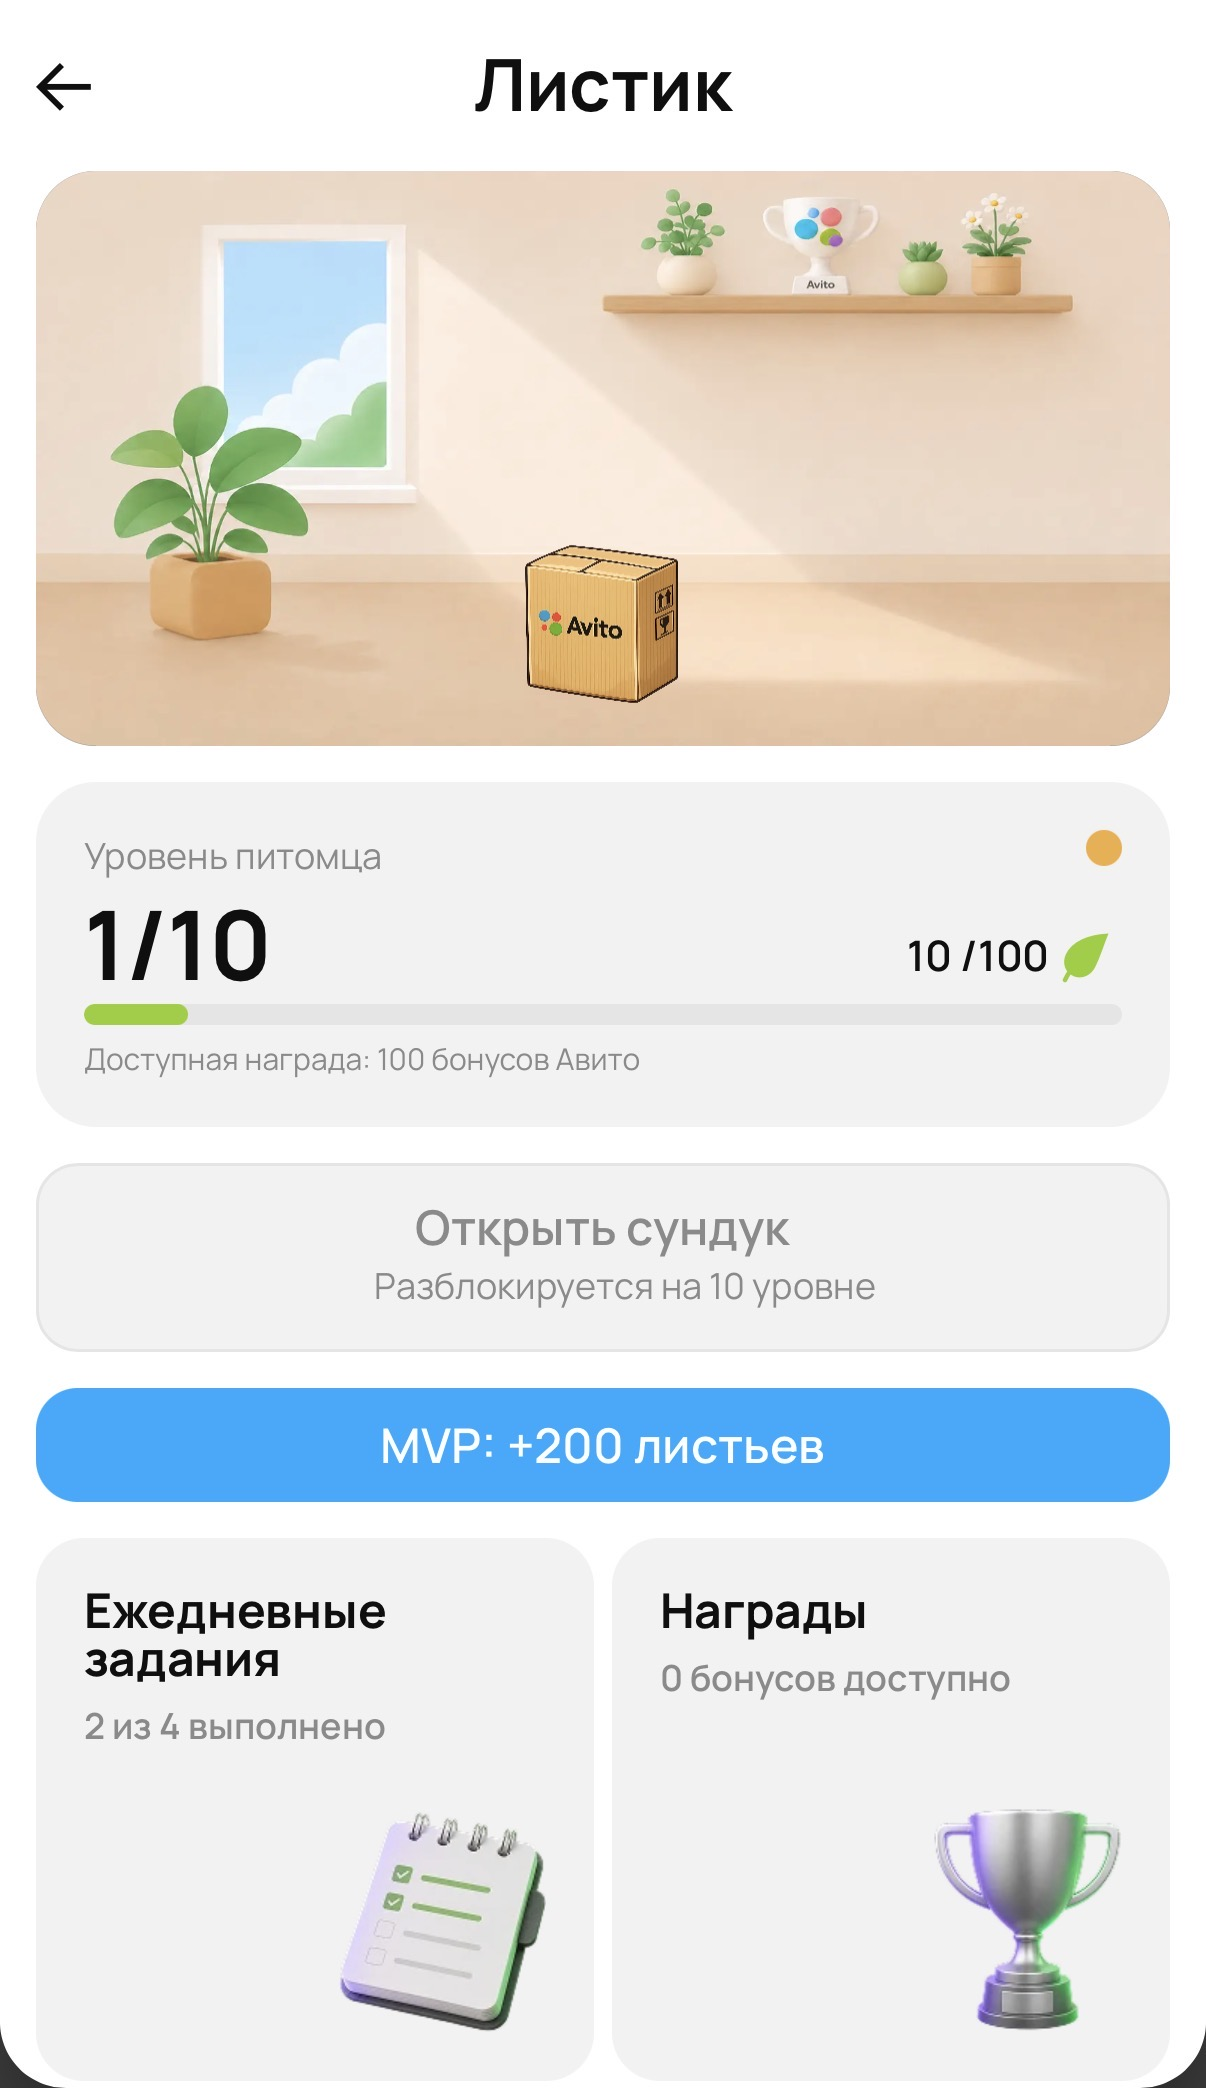
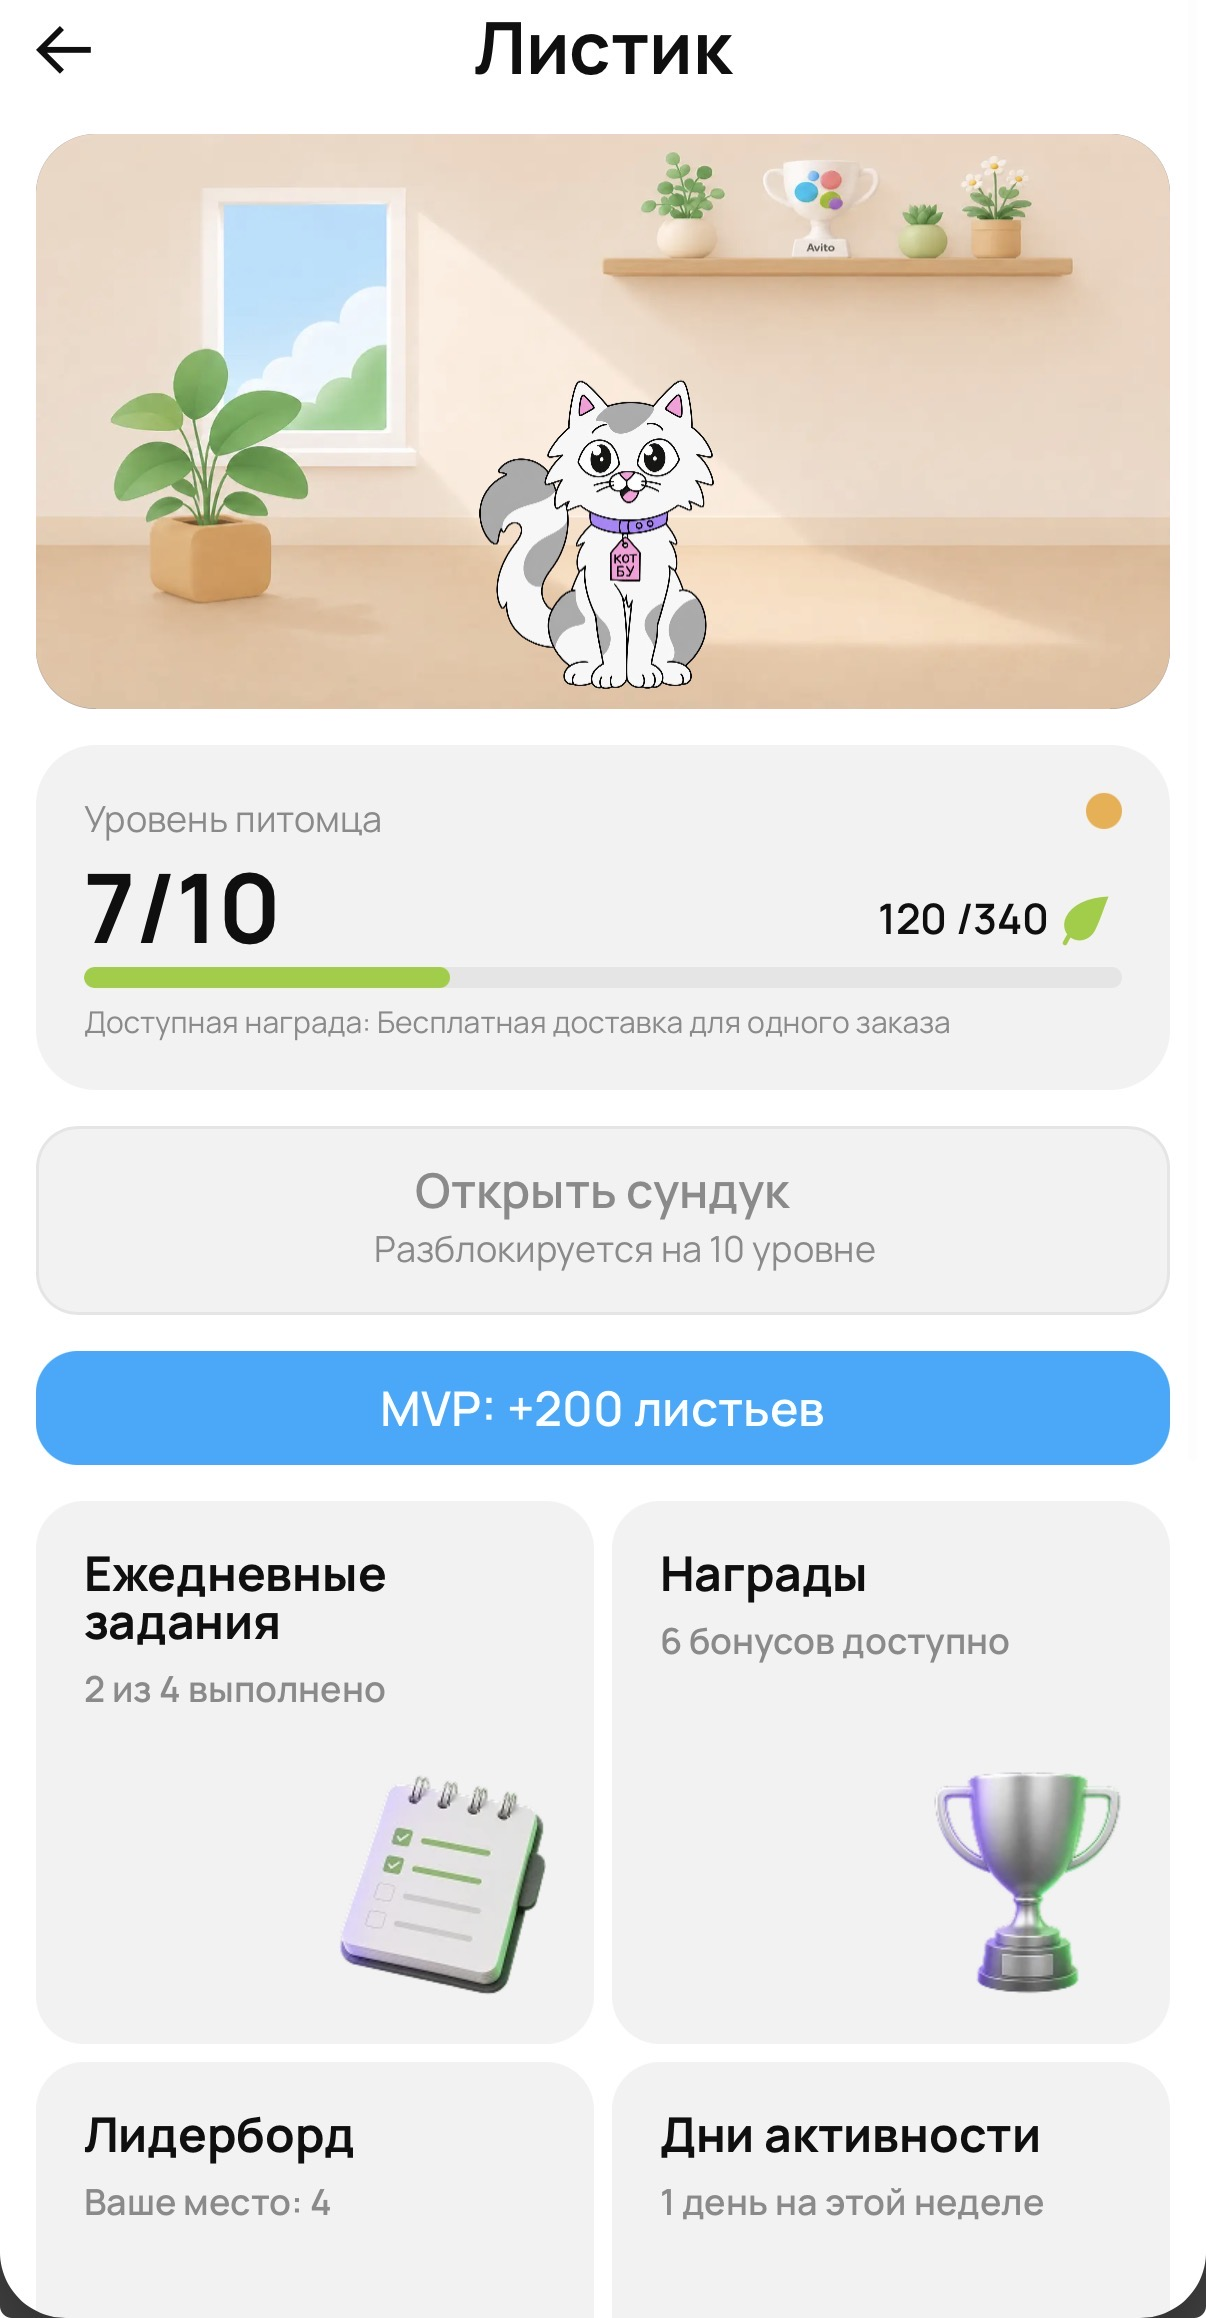
feat: исправлены ошибки в readme

diff --git a/README.md b/README.md
@@ -30,7 +30,6 @@
 - [Быстрый запуск](#быстрый-запуск)
   - [Требования](#требования)
   - [Запуск всего проекта](#запуск-всего-проекта)
-- [Проверка после запуска](#проверка-после-запуска)
 - [Разработка и тесты](#разработка-и-тесты)
 - [Структура проекта](#структура-проекта)
 - [Вклад участников](#вклад-участников)
@@ -85,13 +84,15 @@ backend (Go API, :8090) -----> postgres (:5432)
 
 ## Внешний вид
 
-| Авторизация |                               Еженедельный вход                                |
-| :---: |:------------------------------------------------------------------------------:|
-| <img src="docs/assets/auth.jpg" alt="Авторизация" width="320" /> | <img src="docs/assets/weekly_login.jpg" alt="Еженедельный вход" width="320" /> |
-| Главный экран |                               Ежедневные задания                               |
-| <img src="docs/assets/main_page.jpg" alt="Главный экран" width="320" /> |    <img src="docs/assets/tasks.jpg" alt="Ежедневные задания" width="320" />    |
-| Награды |                                Ежедневный отчёт                                |
-| <img src="docs/assets/rewards.jpg" alt="Награды" width="320" /> |    <img src="docs/assets/daily_report.jpg" alt="Сводка дня" width="320" />     |
+|                               Авторизация                               |                                Еженедельный вход                                |
+|:-----------------------------------------------------------------------:|:-------------------------------------------------------------------------------:|
+|    <img src="docs/assets/auth.jpg" alt="Авторизация" width="320" />     | <img src="docs/assets/weekly_login.jpg" alt="Еженедельный вход" width="320" />  |
+|                              Главный экран                              |                                  Главный экран                                  |
+| <img src="docs/assets/main_page.jpg" alt="Главный экран" width="320" /> |    <img src="docs/assets/main_page2.jpg" alt="Главный экран" width="320" />     |
+|                                 Награды                                 |                               Ежедневные задания                                |
+|     <img src="docs/assets/rewards.jpg" alt="Награды" width="320" />     |        <img src="docs/assets/tasks.jpg" alt="Сводка дня" width="320" />         |
+|                                Лидерборд                                |                                   Сводка дня                                    |
+|  <img src="docs/assets/leaderboard.jpg" alt="Лидерборд" width="320" />  | <img src="docs/assets/daily_report.jpg" alt="Ежедневные задания" width="320" /> |
 
 ## Быстрый запуск
 
@@ -153,24 +154,6 @@ make logs     # логи всех сервисов
 make restart  # перезапуск без пересборки
 make build    # пересборка образов
 ```
-
-## Проверка после запуска
-
-Проверка backend:
-
-```sh
-curl http://localhost:8090/api/health
-```
-
-Команда проверяет, что backend запущен и готов принимать запросы.
-
-Проверка puppeteer:
-
-```sh
-curl http://localhost:8091/health
-```
-
-Откройте интерфейс: <http://localhost:3000>.
 
 ## Разработка и тесты
 

diff --git a/backend/README.md b/backend/README.md
@@ -4,22 +4,8 @@ Backend игрового слоя для Авито. Сервис авториз
 
 ## Запуск
 
-Для локального запуска нужны Go 1.25+, PostgreSQL с применёнными миграциями из `../migrations/` и работающий сервис puppeteer на `http://localhost:8091`.
-
-```bash
-cd backend
-
-export DATABASE_URL=postgres://hackathon:change-me@localhost:5432/hackathon?sslmode=disable
-export JWT_SECRET="$(openssl rand -hex 32)"
-export INTERNAL_SERVICE_TOKEN="$(openssl rand -hex 32)"
-export PUPPETEER_INTERNAL_URL=http://localhost:8091
-
-go run .
-```
-
-Backend будет доступен на `http://localhost:8090`. Миграции сервис автоматически не применяет.
-
-Рекомендуемый запуск всего проекта из корня репозитория:
+Запуск выполняется вместе с остальными сервисами через Docker Compose из корня
+репозитория:
 
 ```bash
 cp .env.example .env
@@ -27,6 +13,8 @@ make up
 ```
 
 Перед запуском замените значения `JWT_SECRET` и `INTERNAL_SERVICE_TOKEN` в `.env` на разные случайные строки длиной не менее 32 символов. `make up` применит миграции и запустит PostgreSQL, backend, puppeteer и frontend.
+
+Backend будет доступен на `http://localhost:8090`.
 
 Проверка состояния сервиса:
 
@@ -38,16 +26,15 @@ curl http://localhost:8090/api/health
 `http://localhost:8090/swagger`. Полный контракт API находится в
 [`docs/openapi.yaml`](../docs/openapi.yaml).
 
-Основные переменные окружения:
+Основные настройки Docker-окружения:
 
 ```dotenv
-DATABASE_URL=postgres://user:password@localhost:5432/database?sslmode=disable
 JWT_SECRET=<строка длиной не менее 32 символов>
 INTERNAL_SERVICE_TOKEN=<строка длиной не менее 32 символов>
 JWT_TTL=24h
 HTTP_ADDRESS=:8090
-PUPPETEER_INTERNAL_URL=http://localhost:8091
-LEVEL_REWARDS_CONFIG=../config/level_rewards.yaml
+PUPPETEER_INTERNAL_URL=http://puppeteer:8091
+LEVEL_REWARDS_CONFIG=/app/config/level_rewards.yaml
 ```
 
 ## Технологии

diff --git a/puppeteer/README.md b/puppeteer/README.md
@@ -4,20 +4,8 @@
 
 ## Запуск
 
-Для локального запуска нужны Go 1.25+ и PostgreSQL с применёнными миграциями из `../migrations/`. Puppeteer и backend используют одну базу данных.
-
-```bash
-cd puppeteer
-
-export DATABASE_URL=postgres://hackathon:change-me@localhost:5432/hackathon?sslmode=disable
-export INTERNAL_SERVICE_TOKEN="$(openssl rand -hex 32)"
-
-go run .
-```
-
-Сервис будет доступен на `http://localhost:8091`. Миграции он автоматически не применяет.
-
-Рекомендуемый запуск всего проекта из корня репозитория:
+Запуск выполняется вместе с остальными сервисами через Docker Compose из корня
+репозитория:
 
 ```bash
 cp .env.example .env
@@ -26,21 +14,22 @@ make up
 
 Перед запуском замените значения `JWT_SECRET` и `INTERNAL_SERVICE_TOKEN` в `.env` на разные случайные строки длиной не менее 32 символов. `make up` применит миграции и запустит PostgreSQL, backend, puppeteer и frontend.
 
+Puppeteer будет доступен на `http://localhost:8091`.
+
 Проверка состояния сервиса:
 
 ```bash
 curl http://localhost:8091/health
 ```
 
-Основные переменные окружения:
+Основные настройки Docker-окружения:
 
 ```dotenv
-DATABASE_URL=postgres://user:password@localhost:5432/database?sslmode=disable
 INTERNAL_SERVICE_TOKEN=<строка длиной не менее 32 символов>
 PUPPETEER_HTTP_ADDRESS=:8091
 PUPPETEER_POLL_INTERVAL=10m
-TASK_DEFINITIONS_CONFIG=../config/task_definitions.yaml
-LEADERBOARD_REWARDS_CONFIG=../config/leaderboard_rewards.yaml
+TASK_DEFINITIONS_CONFIG=/app/config/task_definitions.yaml
+LEADERBOARD_REWARDS_CONFIG=/app/config/leaderboard_rewards.yaml
 ```
 
 `PUPPETEER_POLL_INTERVAL` задаётся в формате Go duration, не может быть меньше одной секунды и управляет периодичностью пересчёта лидерборда.
